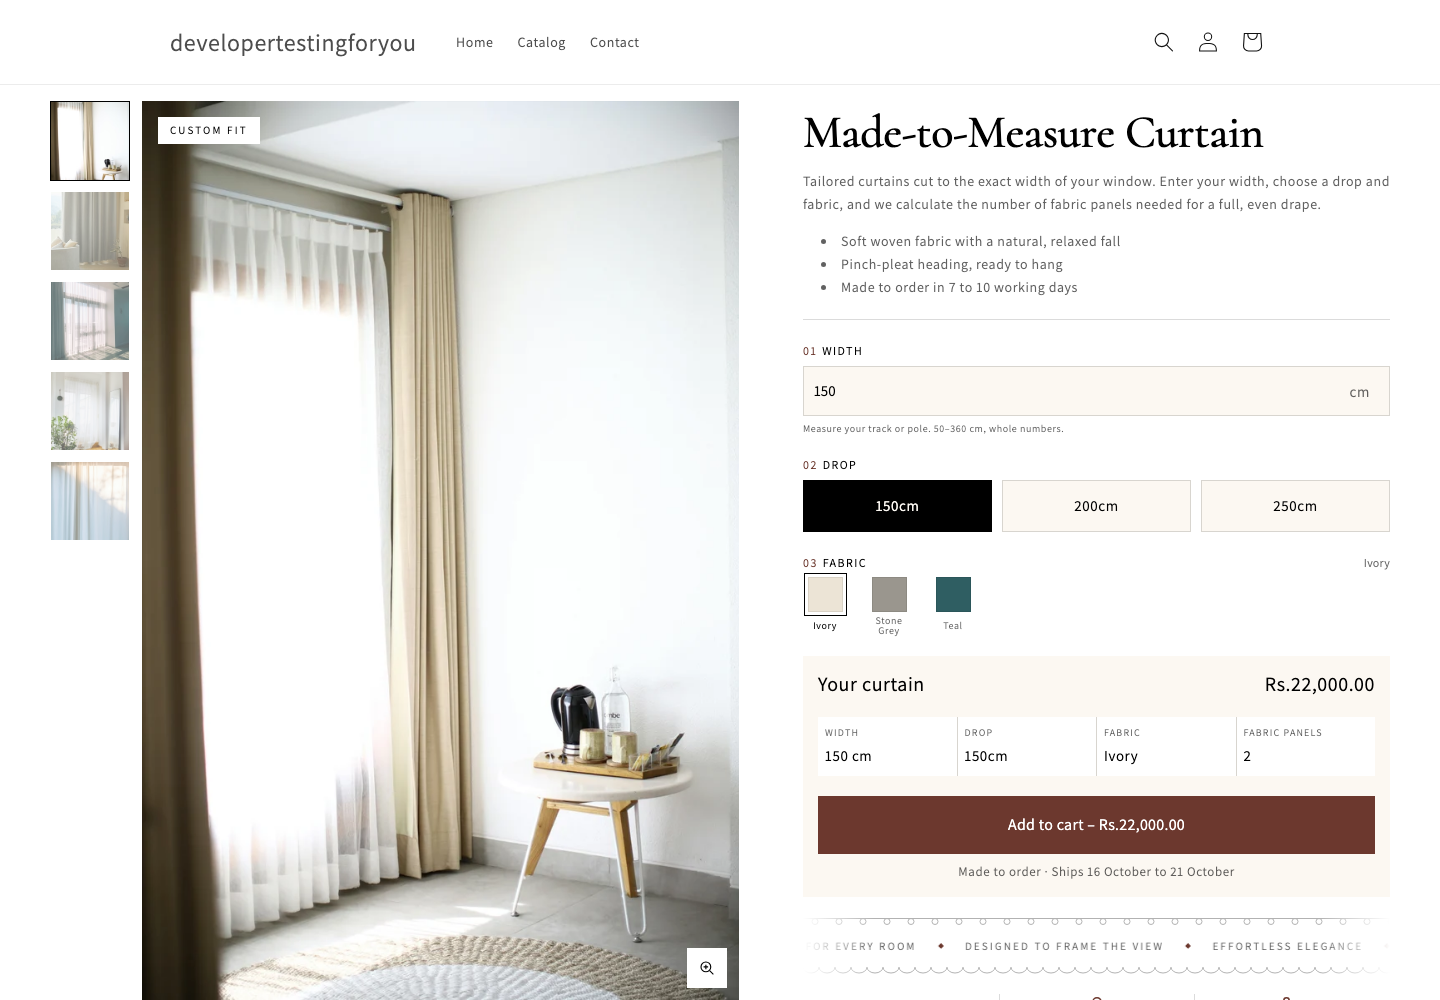
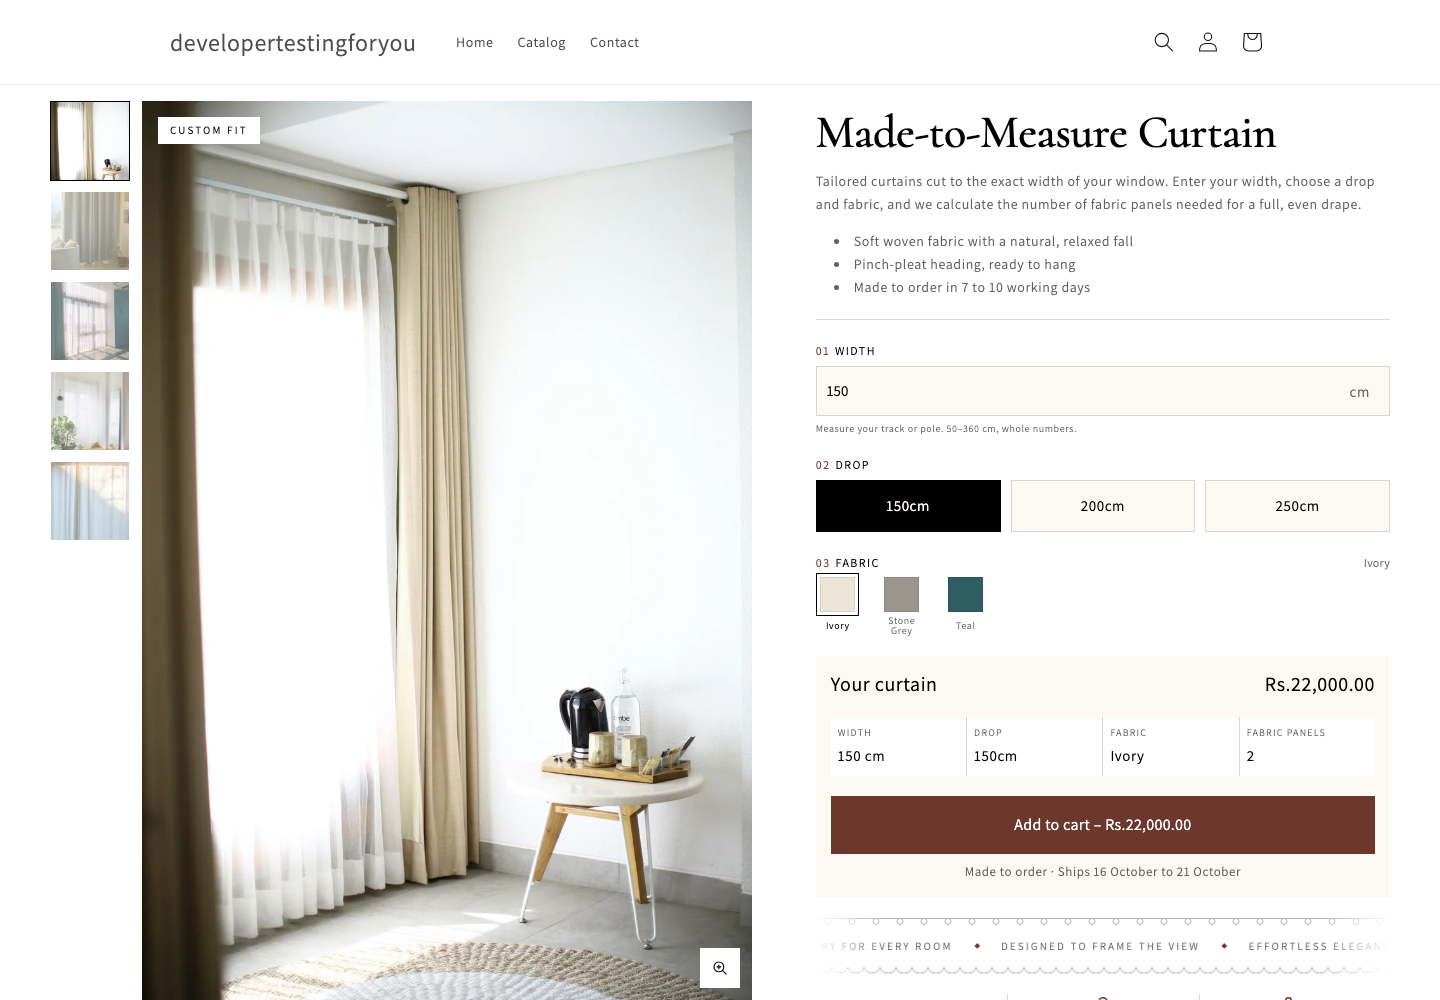
Split the desktop layout 55% gallery, 45% product details

diff --git a/assets/curtain-configurator.css b/assets/curtain-configurator.css
@@ -12,7 +12,7 @@ curtain-configurator {
 
 .cc__inner {
   display: grid;
-  grid-template-columns: minmax(0, 1.08fr) minmax(0, 0.92fr);
+  grid-template-columns: minmax(0, 55fr) minmax(0, 45fr);
   gap: var(--cc-gap);
   align-items: start;
   max-width: var(--cc-max-width);

diff --git a/README.md b/README.md
@@ -242,7 +242,7 @@ The step numbers 01, 02 and 03 come from a CSS counter, so they follow the block
 **Delivery dates.** The note in the add to cart block can contain `[start]` and `[end]`. The script fills them with dates counted from today, for example "Made to order · Ships 16 October to 21 October". The earliest and latest day counts are settings, and weekends can be skipped. The dates are worked out in the browser, because Shopify may serve a cached page rendered on an earlier day.
 
 **Section settings.**
-- **Gallery:** image ratio, a badge on the first image ("Custom Fit" by default, blank to hide), and image zoom. On desktop the main image fills the screen below the header, with thumbnails in a column on its left. On tablet and mobile the ratio applies, and on mobile the thumbnails move under the image.
+- **Gallery:** image ratio, a badge on the first image ("Custom Fit" by default, blank to hide), and image zoom. On desktop the gallery takes 55% of the width and the product details 45%. The main image fills the screen below the header, with thumbnails in a column on its left. On tablet and mobile the ratio applies, and on mobile the thumbnails move under the image.
 
 **Image zoom.** On desktop, hovering the main image shows a 2.5x magnified copy that follows the pointer. On touch screens, a tap zooms in at that point, dragging pans, and a second tap zooms out. A magnifier button in the corner toggles zoom for keyboard and touch users, and Escape closes it. The magnified copy is a 2400px version of the image, loaded only when zoom is first used.
 - **Configuration:** default width, and the names of the Color, Drop and Panels options.
@@ -253,14 +253,14 @@ The section only appears on product templates. It shows a setup notice in the ed
 
 ## Testing
 
-`tests/e2e/run.mjs` runs 62 checks against a live preview:
+`tests/e2e/run.mjs` runs 63 checks against a live preview:
 
 - **Rendering:** no Panels control on the page, and no Dawn product form.
 - **Pricing:** price and panel count at every tier boundary, from 50 to 360 cm.
 - **Validation:** inline errors for 49, 361, 180.5 and an empty field.
 - **Delivery dates:** the note shows the dates 7 and 10 working days from today.
 - **Interaction:** color swaps the gallery image, and arrow keys move through the swatches.
-- **Layout:** a 1440px container on wide screens, thumbnails to the left of the main image, the main image filling the screen below the header, three collapsible rows under the button, zero layout shift, and no horizontal overflow at tablet and mobile widths.
+- **Layout:** a 1440px container on wide screens, a 55/45 desktop split, thumbnails to the left of the main image, the main image filling the screen below the header, three collapsible rows under the button, zero layout shift, and no horizontal overflow at tablet and mobile widths.
 - **Interaction:** rows start closed and only one opens at a time, and the button curtain covers the button on hover.
 - **Trust badges:** three badges sit between the add to cart card and the rows.
 - **Image:** the badge sits on the first image only, hover zoom follows the pointer and ends on leave, and the zoom button works from the keyboard.
